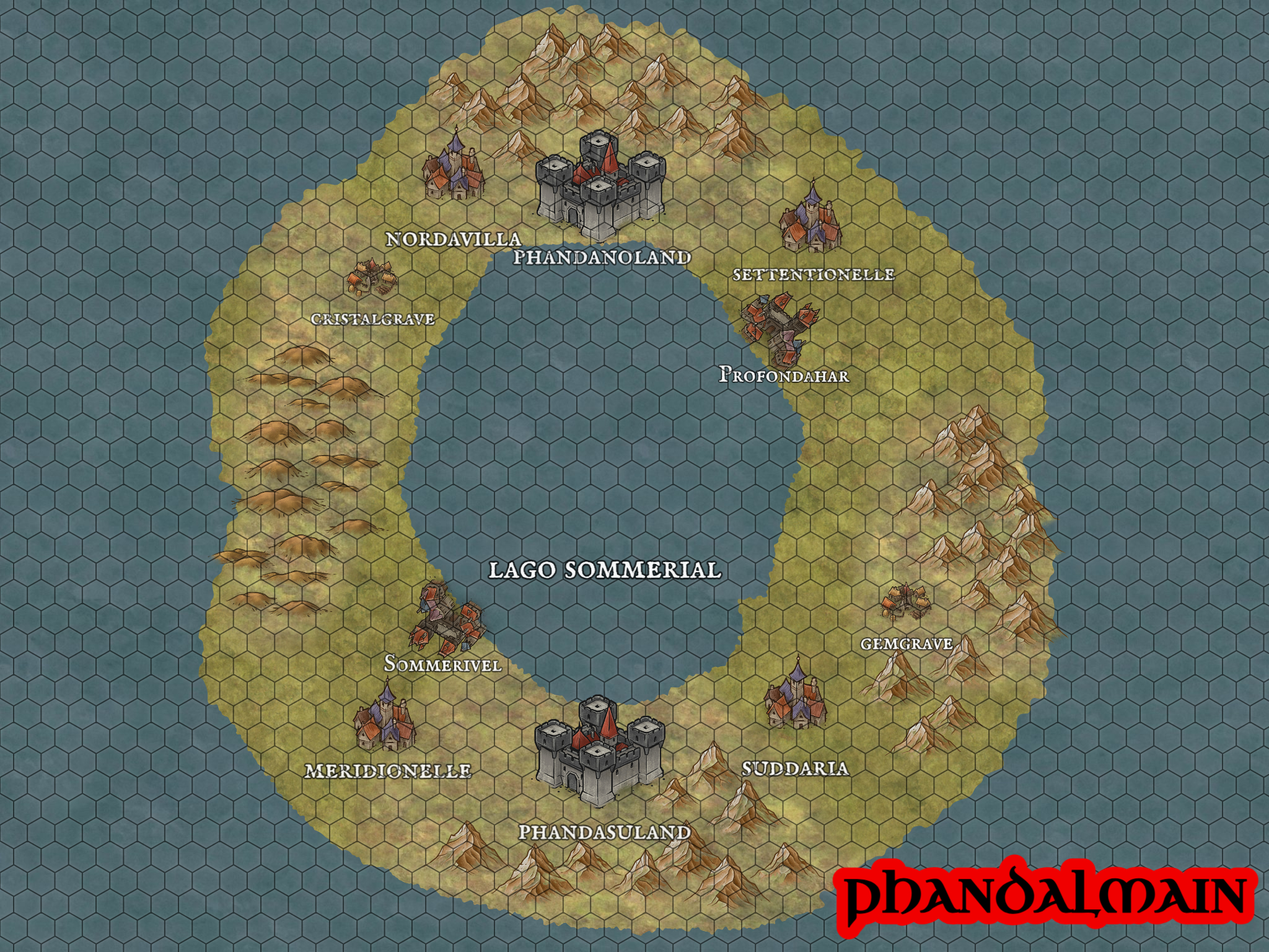
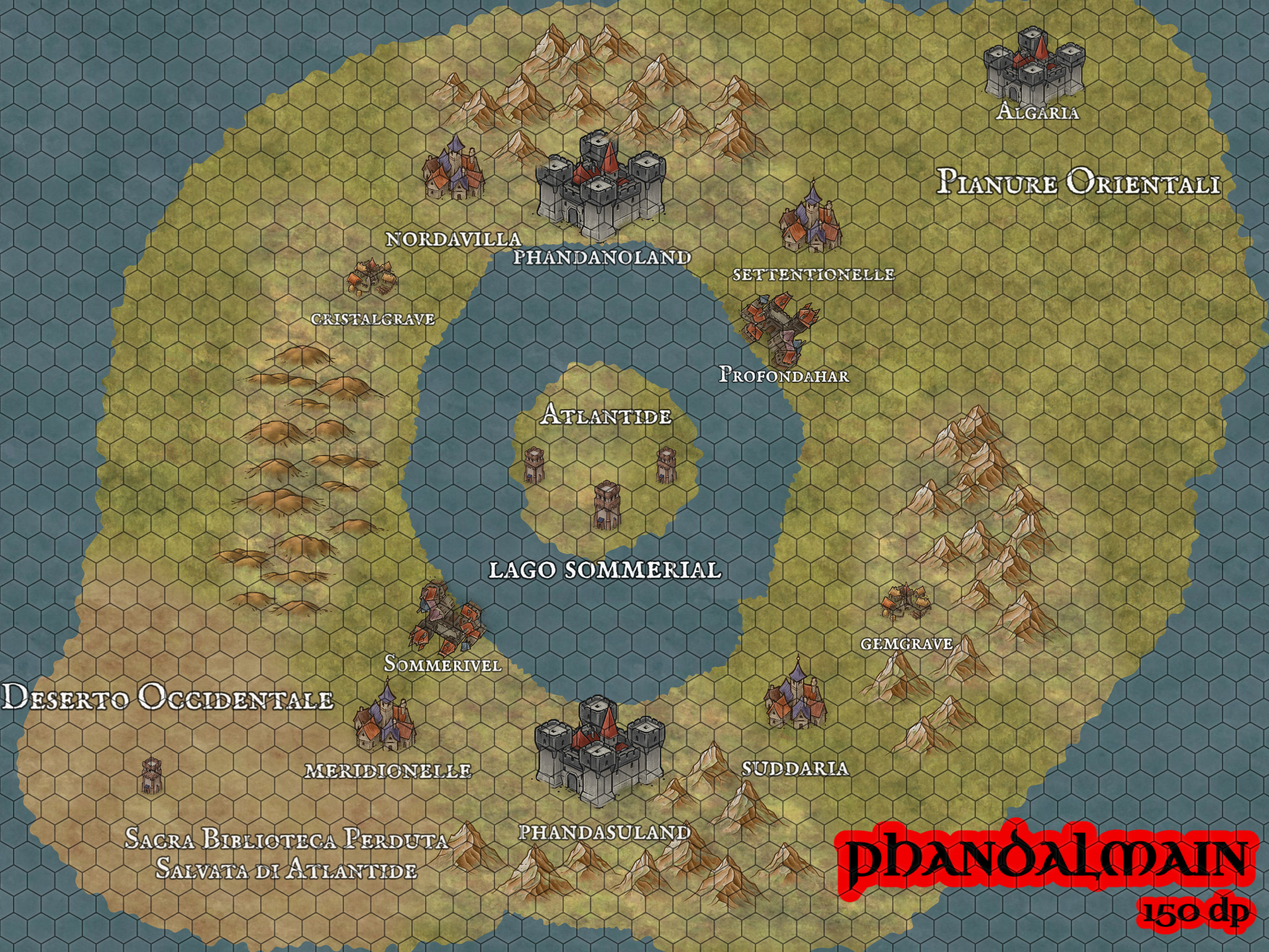
aggiornamento 2026 09 17 20:00 [v 0.1.36] - retconned map adding desert and plains, added context for plains and desert, added saga

diff --git a/saghe/01-macrosaga-del-filatterio/01-prima-saga-di-atlantide.md b/saghe/01-macrosaga-del-filatterio/01-prima-saga-di-atlantide.md
@@ -1,0 +1,7 @@
+| saga precedente | saga successiva |    macrosaga di appartenenza    |
+| :-------------: | :-------------: | :-----------------------------: |
+|     nessuna     | nessuna         | [[01-macrosaga-del-filatterio]] |
+# sessioni
+## sessione di mercoledì 2026 09 16
+i membri de [[il-party]] si dirigono separatamente a [[atlantide]] (ancora non si conoscono) e qui si trovano ognuno in una delle 3 torri degli artefici e esplorando si ritrovano a superare degli ostacoli, alcuni con successo, altri senza, per poi trovarsi davanti a [[atos]], unico abitante di [[atlantide]] che sta accumulando potere e che è sulla strada per diventare un [[lich]], infatti cerca di catturarli per usare le loro anime per creare il suo [[filatterio]]. dopo che i tre riescono a evadere dalle celle in cui erano stati messi scappano perchè si rendono conto che al momento non potrebbero mai affrontare atos.
+quando riescono ad arrivare ai confini dell'isola e cominciano a prendere un po' di respiro presentandosi l'un l'altro e capendo perchè erano lì [[simulacro]] li preleva e si presenta loro proponendogli di collaborare per vendicarsi di Atos, e accettando il party si fa portare alla [[sacra-biblioteca-perduta-salvata-di-atlantide]], dimora di [[vala-khad-bardo-collegio-della-creazione-kalashtar]], unico membro del gruppo ad avere una dimora che non sia una locanda

diff --git a/universi/phandalmain/phandanoland/pianura-orientale.md b/universi/phandalmain/phandanoland/pianura-orientale.md
@@ -1,0 +1,2 @@
+è una vastissima pianura che si trova a nordest del continente, ufficialmente non fa parte di nessun regno in quanto vi abitano le tribù nomadi degli [[algariani]] che hanno fatto dei cavalli il centro della loro società e che non sono mai state conquistate in quanto non posseggono veri villaggi da conquistare e a ogni tentativo di creazione di insediamenti nelle loro pianure hanno reagito violentemente rendendone di fatto impossibile la colonizzazione e rifiutano ti avere qualsiasi forma di comunicazione non violenta con chiunque non abbia scopi esclusivamente commerciali
+non è un regno a sé stante solo perché vi sono molte tribù diverse che non sono mai riuscite a restare d'accordo abbastanza a lungo da instaurare una forma di governo.

diff --git a/personaggi/giocanti/-warlock-umano-variante.md b/personaggi/giocanti/-warlock-umano-variante.md
@@ -3,7 +3,7 @@
 # Background
 #startAccess-enrico  
 ## in realtà:
-dopo che la sua famiglia (attendo almeno qualche nome da mettere qua) e il suo villaggio vengono uccisi giura vendetta contro i loro assassini e si vota a [[il-simulacro]] una divinità esterna per ottenere il potere necessario per compiere la sua vendetta
+dopo che la sua famiglia (attendo almeno qualche nome da mettere qua) e il suo villaggio vengono uccisi giura vendetta contro i loro assassini e si vota a [[simulacro]] una divinità esterna per ottenere il potere necessario per compiere la sua vendetta
 ## per gli altri giocatori:
 #endAccess 
 

diff --git a/personaggi/non-giocanti/background-pg/un0/golett.md b/personaggi/non-giocanti/background-pg/un0/golett.md
@@ -1,1 +1,1 @@
-è un [[artefici|artefice]] che vive nell'ultimo periodo di esistenza della sua organizzazione, l'ultima cosa che fa quando era in vita è accendere per la prima volta [[un0-3-guerriero-maestro-della-battaglia-warforged]] e dargli l'ordine di "proteggere gli artefici"
+è un nano [[artefici|artefice]] che vive a nord durante l'ultimo periodo di esistenza della sua organizzazione, l'ultima cosa che fa quando era in vita è accendere per la prima volta [[un0-3-guerriero-maestro-della-battaglia-warforged]] e dargli l'ordine di "proteggere gli artefici"

diff --git a/universi/phandalmain/phandanoland/algaria.md b/universi/phandalmain/phandanoland/algaria.md
@@ -1,0 +1,2 @@
+è un castello al centro della [[pianura-orientale]] che in realtà non è abitato da nessuno ed è stato creato solo per prendere in giro i potenziali invasori facendogli credere che esista un luogo da conquistare per poi sconfiggerli in battaglia.
+il castello viene usato a questo scopo da tutte le tribù che non litigano per esso, anzi, fanno a gara a chi ci costruisce la torre più alta alzando di alcuni metri alla volta la loro rispettiva torre

diff --git a/personaggi/organizzazioni-gruppi/il-party.md b/personaggi/organizzazioni-gruppi/il-party.md
@@ -1,0 +1,9 @@
+![[un0-3-guerriero-maestro-della-battaglia-warforged]]
+![[vala-khad-bardo-collegio-della-creazione-kalashtar]]
+![[kalpa-monaco-forma-astrale-drow]]
+
+# punti esperienza
+|              sessione              | livello |
+| :--------------------------------: | :-----: |
+|             sessione 0             |    5    |
+| sessione 1 di mercoledì 2026 09 16 |    5    |

diff --git a/personaggi/organizzazioni-gruppi/algariani.md b/personaggi/organizzazioni-gruppi/algariani.md
@@ -1,0 +1,2 @@
+sono una serie di tribù nomadi che ha centrato la loro società intorno ai cavalli e al combattimento che vive nella [[pianura-orientale]] e che è sempre riuscito a evitare che chiunque riuscisse a stanziarsi sul loro territorio anche senza loro essere un vero e proprio regno.
+al centro della pianura hanno costruito il castello di [[algaria]]

diff --git a/todo.md b/todo.md
@@ -4,7 +4,7 @@
 	- [ ] scrivere definizione [[cacodemone]]
 	- [ ] scrivere definizione [[signore-dei-demoni]]
 - party
-	- [ ] Marco Totaro
+	- [ ] [[un0-3-guerriero-maestro-della-battaglia-warforged|Marco Totaro]]
 		- [x] manca background
 		- [ ] manca scheda pg
 	- [ ] [[-warlock-umano-variante|Enrico Stevanato]]

diff --git a/universi/phandalmain/sacra-biblioteca-perduta-salvata-di-atlantide.md b/universi/phandalmain/sacra-biblioteca-perduta-salvata-di-atlantide.md
@@ -19,5 +19,5 @@ porta nel sobborgo cittadino dell'antica città di [[atlantide]]
 #### Phandanoland
 porta nel sobborgo della capitale del nord, [[phandanoland]]
 #### Phandasuland
-porta nel sobborgo della capitale del nord, [[phandasuland]]
+porta nel sobborgo della capitale del sud, [[phandasuland]]
 #endAccess  

diff --git a/universi/phandalmain/phandasuland/deserto-occidentale.md b/universi/phandalmain/phandasuland/deserto-occidentale.md
@@ -1,0 +1,2 @@
+è un deserto che si trova a sudovest del continente, ufficialmente fa parte del regno di [[phandasuland]] ma non essendoci nulla rilevante non ha mai fatto valere i suoi diritti di proprietà.
+non è un regno a sé stante solo perché non c'è nessuno di così pazzo da viverci in pianta stabile.

diff --git a/saghe/01-macrosaga-del-filatterio.md b/saghe/01-macrosaga-del-filatterio.md
@@ -1,0 +1,4 @@
+#dm 
+in questa macro saga [[il-party]] ha come obbiettivo quello di impedire a [[atos]] di crearsi il suo filatterio
+è composta da:
+- [[01-prima-saga-di-atlantide]]
